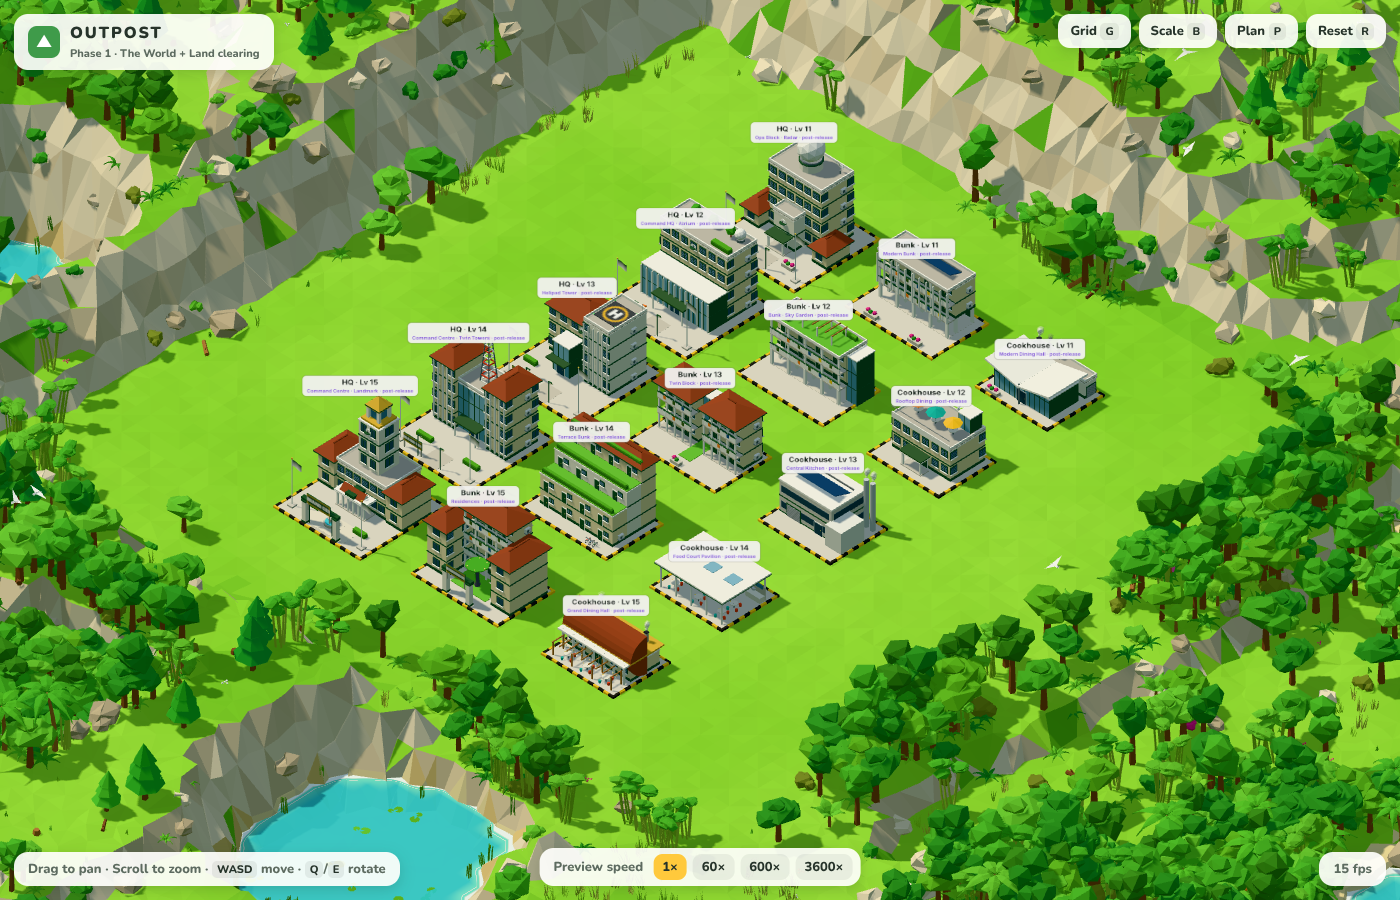
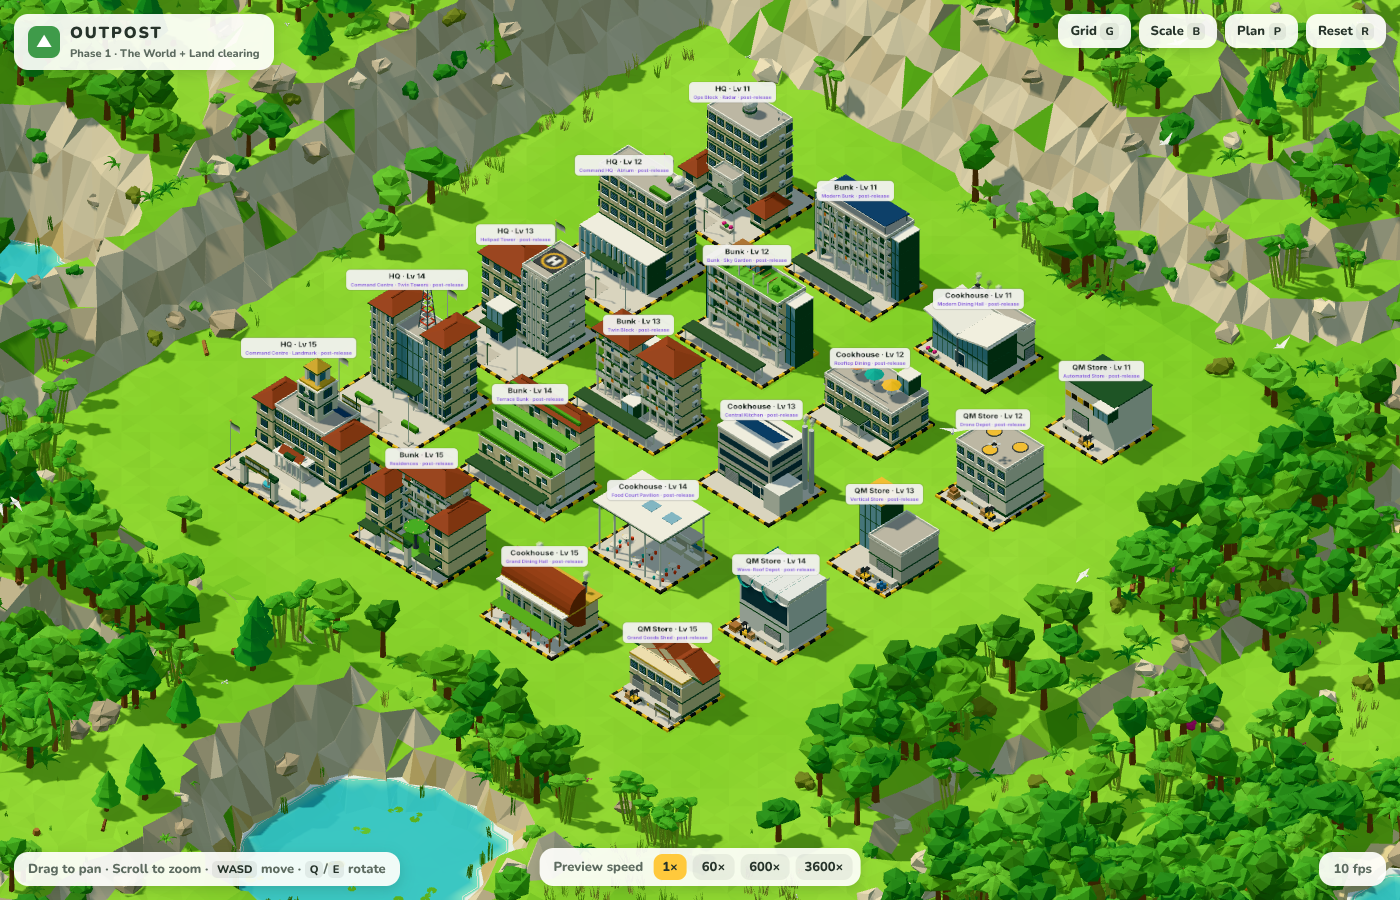
Refinement pass: uniqueness and upgrade-only progression across all buildings
Metrics QA (height, coverage, detail) with no remaining downgrades; visual
fixes for Bunk 4/12/18, HQ 8/17, QM 13/14/16/19; documents the rules.

Claude-Session: https://claude.ai/code/session_01SMnsqwFm6RZfdtWKUcNS1P

diff --git a/src/buildings/qmstore.ts b/src/buildings/qmstore.ts
@@ -328,11 +328,12 @@ function command(k: Kit, level: number, y: number) {
   }
   if (level === 13) {
     // Vertical Store: glass automated tower beside a low dock hall.
-    k.glassBox(1.2, 3.1, 1.2, -1.15, y, -1.0);
-    for (let l = 0; l < 5; l++) k.box(1.0, 0.04, 1.0, RACK_UP, -1.15, y + 0.5 + l * 0.55, -1.0);
-    k.box(1.3, 0.12, 1.3, C.white, -1.15, y + 3.1, -1.0);
-    const h = store(k, 2.4, 2.6, 0.75, -0.5, y, 3, CONCRETE);
-    k.flatRoof(2.4, 2.6, 0.75, y + h, -0.5);
+    k.glassBox(1.5, 3.2, 1.5, -1.1, y, -0.9);
+    for (let l = 0; l < 5; l++) for (let b = 0; b < 3; b++) k.box(0.36, 0.3, 1.2, BOX[(l + b) % BOX.length], -1.5 + b * 0.4, y + 0.35 + l * 0.58, -0.9);
+    for (let l = 0; l < 6; l++) k.box(1.4, 0.04, 1.3, RACK_UP, -1.1, y + 0.3 + l * 0.58, -0.9);
+    k.box(1.6, 0.12, 1.6, '#ffc93c', -1.1, y + 3.2, -0.9);
+    const h = store(k, 2.2, 2.6, 0.85, -0.5, y, 2, CONCRETE);
+    k.flatRoof(2.2, 2.6, 0.85, y + h, -0.5);
     const belt = k.box(0.9, 0.08, 0.2, '#5c6166', -0.15, y + 1.2, -1.0);
     belt.rotation.z = -0.3;
     dock(k, 0.75, 1.05, 2.0, y);
@@ -343,14 +344,14 @@ function command(k: Kit, level: number, y: number) {
   if (level === 14) {
     // Wave-Roof Depot: undulating roof of alternating arcs over a glazed shed.
     const w = 3.4, d = 2.6, z = -0.5;
-    k.box(w, 2.85, d, CONCRETE, 0, y, z);
-    k.box(w - 0.3, 0.4, 0.04, DARK_GLASS, 0, y + 2.2, z + d / 2 + 0.01);
+    k.box(w, 3.1, d, '#e6e9eb', 0, y, z);
+    k.box(w - 0.3, 1.1, 0.04, DARK_GLASS, 0, y + 1.5, z + d / 2 + 0.01);
     k.box(w + 0.02, 0.06, d + 0.02, C.trim, 0, y + 1.15, z);
     for (let i = 0; i < 4; i++) {
-      const arc = new THREE.Mesh(new THREE.CylinderGeometry(0.5, 0.5, d + 0.3, 10, 1, true, -Math.PI / 2, Math.PI), new THREE.MeshStandardMaterial({ color: i % 2 ? C.white : '#9aa3a6', flatShading: true, side: THREE.DoubleSide }));
+      const arc = new THREE.Mesh(new THREE.CylinderGeometry(0.5, 0.5, d + 0.3, 10, 1, true, -Math.PI / 2, Math.PI), new THREE.MeshStandardMaterial({ color: i % 2 ? C.white : '#2bb3a3', flatShading: true, side: THREE.DoubleSide }));
       arc.rotation.x = Math.PI / 2;
-      arc.scale.set(1, 1, i % 2 ? 0.45 : 0.75);
-      arc.position.set(-1.27 + i * 0.85, y + 2.85, z);
+      arc.scale.set(1, 1, i % 2 ? 0.8 : 1.3);
+      arc.position.set(-1.27 + i * 0.85, y + 3.1, z);
       arc.rotation.y = 0;
       arc.castShadow = true;
       k.add(arc);
@@ -362,13 +363,13 @@ function command(k: Kit, level: number, y: number) {
     return;
   }
   // 15: Grand Goods Shed: railway-style shed with three arched gable doorways and gold trim.
-  const w = 3.6, d = 2.2, z = -0.6;
+  const w = 3.6, d = 2.6, z = -0.5;
   const h = k.block(w, d, 2, 0, y, z) + 0.3;
   k.box(w, 0.3, d, C.wall, 0, y + 2 * STOREY, z);
   k.windowRow('front', 0, z, w, d, 6, y + STOREY + 0.45, { louvre: true });
   for (let i = 0; i < 3; i++) {
     const g = new Kit();
-    g.gableRoof(1.1, d, 0.55, 0, 0, 0, C.roof, 0.08);
+    g.gableRoof(1.1, d, 0.8, 0, 0, 0, C.roof, 0.08);
     g.group.rotation.y = Math.PI / 2;
     g.group.position.set(-1.2 + i * 1.2, y + h, z);
     k.add(g.group);
@@ -390,12 +391,18 @@ function secure(k: Kit, level: number, y: number) {
     k.box(2.8, 2.9, 2.0, CONCRETE, -0.3, y, -0.8);
     for (let i = 0; i < 7; i++) k.box(2.82, 0.03, 2.02, '#c2bdb3', -0.3, y + 0.4 + i * 0.4, -0.8);
     roofCanopy(k, 2.4, 1.6, -0.3, y + 2.9, -0.8, 0.3);
+    for (let i = 0; i < 9; i++) k.box(0.3, 0.2, 0.04, i % 2 ? C.kerbB : C.kerbY, -1.5 + i * 0.3, y + 1.4, 0.21);
+    for (const x of [-1.5, 0.9]) {
+      k.box(0.06, 0.06, 0.2, C.dark, x, y + 2.4, 0.3);
+      k.box(0.2, 0.12, 0.06, '#fff6c8', x, y + 2.35, 0.42);
+    }
     const door = k.cyl(0.5, 0.12, '#8a9196', -0.3, y + 0.15, 0.25, 16);
     door.rotation.x = Math.PI / 2;
     door.position.set(-0.3, y + 0.62, 0.22);
     k.cyl(0.08, 0.16, '#d9b24a', -0.3, y + 0.62, 0.28, 8).rotation.x = Math.PI / 2;
     for (const [x, z] of [[1.4, -1.2], [1.4, -0.4]]) pallet(k, x, z, y, 'crates', 2);
     for (let i = 0; i < 6; i++) k.box(0.03, 0.8, 0.03, C.metal, 1.05 + (i % 3) * 0.33, y, i < 3 ? -1.55 : -0.05);
+    k.box(0.9, 0.05, 1.7, C.roofGreen, 1.38, y + 0.85, -0.8); // cage roof
     forklift(k, 0.8, 1.0, y, Math.PI);
     return;
   }
@@ -441,7 +448,7 @@ function secure(k: Kit, level: number, y: number) {
     k.box(1.4, 0.07, 3.0, C.roofGreen, -1.05, y + 2.0, -0.3);
     for (const z2 of [-1.6, -0.3, 1.0]) k.box(0.06, 2.0, 0.06, C.white, -0.4, y, z2);
     for (const z of [-1.2, 0.0]) k.cyl(0.08, 0.06, '#2a2b2d', -1.05, y + 0.08, z, 8).rotation.z = Math.PI / 2;
-    const h = store(k, 1.9, 2.4, 0.8, -0.6, y, 3, CONCRETE);
+    const h = store(k, 1.9, 2.4, 0.8, -0.6, y, 3, '#b5654a'); // brick goods shed
     k.box(1.9, 0.07, 0.9, C.roofGreen, 0.8, y + 1.0, 1.05);
     for (const x2 of [0.0, 1.6]) k.box(0.06, 1.0, 0.06, C.white, x2, y, 1.45);
     k.box(2.4, 0.08, 2.6, C.roofGreen, 0.55, y + h + 0.1, -0.6);

diff --git a/src/buildings/bunk.ts b/src/buildings/bunk.ts
@@ -203,10 +203,14 @@ function field(k: Kit, level: number, y: number) {
 
 function camp(k: Kit, level: number, y: number) {
   if (level === 4) {
-    barrack(k, 0, -0.55, 5.2, 1.7, y, 'zinc');
-    k.clothesLine(-1.6, 1.35, 1.6, y);
-    k.bench(1.3, 1.05, 0.8, y);
-    k.bin(2.6, 1.5, y);
+    // Long red-roofed barrack with a full-length green veranda (vs the timber kampong hut at Lv 3)
+    barrack(k, 0, -0.75, 5.2, 1.6, y, 'red');
+    k.box(5.2, 0.05, 0.7, '#c9c3b5', 0, y, 0.4);
+    for (let i = 0; i < 6; i++) k.box(0.07, 0.8, 0.07, C.white, -2.5 + i * 1.0, y, 0.7);
+    k.box(5.4, 0.06, 0.85, C.roofGreen, 0, y + 0.82, 0.35);
+    k.clothesLine(-1.6, 1.45, 1.6, y);
+    k.bench(1.3, 1.25, 0.8, y);
+    k.bin(2.6, 1.6, y);
     return;
   }
   if (level === 5) {
@@ -294,13 +298,20 @@ function command(k: Kit, level: number, y: number) {
     return;
   }
   if (level === 12) {
+    // Three room floors, then a set-back sky-garden storey with a planted terrace in front
     const top = corridorBlock(k, { bw: 4.8, bd: 1.35, bz: -0.95, storeys: 4, y, voidDeck: true, roof: 'flat' });
     const ry = y + top + 0.06;
-    // Roof garden with a pergola
     k.box(4.6, 0.04, 1.7, '#6cbf45', 0, ry, -0.7);
-    for (const x of [-1.6, -0.6, 0.4, 1.4]) for (const z of [-1.2, -0.2]) k.box(0.06, 0.6, 0.06, C.white, x, ry, z);
-    for (let i = 0; i < 8; i++) k.box(0.05, 0.05, 1.1, C.wood, -1.7 + i * 0.45, ry + 0.6, -0.7);
-    k.box(3.3, 0.04, 1.15, '#b07a4a', -0.1, ry + 0.66, -0.7);
+    // Garden pavilion: low glass room under a timber roof
+    k.glassBox(2.0, 0.6, 0.8, -0.9, ry, -1.2);
+    k.box(2.2, 0.06, 1.0, C.wood, -0.9, ry + 0.6, -1.2);
+    for (const x of [-1.6, -0.6, 0.4, 1.4]) k.box(0.06, 0.7, 0.06, C.white, x, ry, -0.05);
+    for (let i = 0; i < 8; i++) k.box(0.05, 0.05, 0.6, C.wood, -1.7 + i * 0.45, ry + 0.7, -0.35);
+    for (const x of [-1.9, 1.7]) {
+      const t = new THREE.Mesh(new THREE.IcosahedronGeometry(0.22, 0), new THREE.MeshStandardMaterial({ color: '#4fae3a', flatShading: true }));
+      t.position.set(x, ry + 0.35, -0.3);
+      k.add(t);
+    }
     k.glassBox(0.5, top - 0.1, 1.4, -2.65, y, -0.8);
     k.linkway(-2.4, 1.6, 2.4, 1.6, y, 0.75, 0.6);
     k.hedge(-1.8, -0.1, 0.8, 0.2, ry);
@@ -377,6 +388,7 @@ function secure(k: Kit, level: number, y: number) {
     k.box(w + 0.08, 0.1, d + 0.08, C.white, 0, y + 4 * STOREY, z);
     roofCanopy(k, 4.4, 1.2, 0, y + 4 * STOREY + 0.1, z);
     k.glassBox(0.5, 4 * STOREY - 0.1, 1.2, 2.55, y, z);
+    k.linkway(-2.4, 1.3, 2.4, 1.3, y, 0.75, 0.55);
     k.box(3.0, 0.08, 0.6, C.roofGreen, -0.8, y + 0.9, 0.55);
     for (const x of [-2.2, 0.6]) k.box(0.07, 0.9, 0.07, C.white, x, y, 0.8);
     k.door('right', 0, z, w, d, 0, y, 0.4, 0.66, DARK_GLASS);
@@ -399,6 +411,8 @@ function secure(k: Kit, level: number, y: number) {
     }
     k.stairs(2.6, -0.2, 0.4, 1.6, 3 * STOREY);
     roofCanopy(k, 4.2, 1.3, 0.3, y + 4 * STOREY + 0.05, -0.75);
+    k.box(4.6, 0.07, 0.5, C.roofGreen, 0.1, y + 0.9, 1.1);
+    for (const x of [-2.1, 0.1, 2.3]) k.box(0.06, 0.9, 0.06, C.white, x, y, 1.3);
     return;
   }
   if (level === 18) {
@@ -414,6 +428,12 @@ function secure(k: Kit, level: number, y: number) {
       }
       k.box(4.88, 0.1, 0.83, '#6cbf45', 0, y + 4 * STOREY, z);
       k.hedge(0, z, 4.4, 0.4, y + 4 * STOREY + 0.1);
+      // Outer face: dark windows with green planter boxes on every floor
+      const oz = z + (flip > 0 ? -0.4 : 0.4);
+      for (let f = 0; f < 4; f++) {
+        k.box(4.4, 0.32, 0.04, DARK_GLASS, 0, y + f * STOREY + 0.36, oz);
+        k.box(4.6, 0.14, 0.16, '#4fae3a', 0, y + f * STOREY + 0.18, oz + (flip > 0 ? -0.08 : 0.08));
+      }
     }
     // Street: paving, trees, pergola with towels on lines
     k.box(4.6, 0.02, 1.2, '#e3dccb', 0, y, -0.25);

diff --git a/src/buildings/hq.ts b/src/buildings/hq.ts
@@ -272,6 +272,13 @@ function base(k: Kit, level: number, y: number) {
   k.lamp(-0.75, 2.6, y);
   k.lamp(0.6, 2.6, y);
   if (!complex) k.antenna(1.3, y + h + 0.35, bz - 0.25, 1.4);
+  if (level === 8) {
+    // Rooftop cupola with a flag: an early hint of the Lv 9 clock tower
+    k.box(0.7, 0.55, 0.7, C.white, 0, y + h + 0.35, bz);
+    k.box(0.5, 0.25, 0.04, DARK_GLASS, 0, y + h + 0.5, bz + 0.36);
+    k.hipRoof(0.7, 0.7, 0.35, 0, y + h + 0.9, bz, C.roof, 0.08);
+    k.flagpole(0, bz, 0.7, y + h + 1.2);
+  }
 }
 
 
@@ -501,7 +508,12 @@ function secureCompound(k: Kit, y: number) {
 /** 17 — Operations Centre: three-storey base with a glass fourth storey cantilevered over the entrance. */
 function opsCentre(k: Kit, y: number) {
   const bz = -1.0;
-  const h = ribbonBlock(k, 0, bz, 4.4, 2.2, 4, y);
+  // Vertical-fin facade (HQ 16 uses horizontal ribbons)
+  const h = 4 * STOREY;
+  k.box(4.4, h, 2.2, CONCRETE, 0, y, bz);
+  k.box(4.3, h - 0.3, 0.04, DARK_GLASS, 0, y + 0.15, bz + 1.11);
+  k.fins(4.4, h - 0.2, 0, y + 0.1, bz + 1.17, 16);
+  k.box(4.48, 0.1, 2.28, C.white, 0, y + h, bz);
   // Cantilevered glass box projecting forward over the drop-off
   k.glassBox(3.0, STOREY - 0.05, 2.6, 0.3, y + h + 0.1, bz + 0.4);
   k.box(3.1, 0.1, 2.7, C.white, 0.3, y + h, bz + 0.4);

diff --git a/docs/BUILDINGS_PLAN.md b/docs/BUILDINGS_PLAN.md
@@ -15,6 +15,7 @@ export const RELEASE_MAX_LEVEL = 10;
 - **Height budget:** a building's bulk stays within about **4 storeys** so it never hides what's behind it; only thin elements (masts, flags, spires) go higher.
 - **Theme by band, identity by building:** the band sets the shared theme (materials, colours, era). Each building keeps its own signature at every level: **HQ** has flags, clock, command tower and antennas; **Bunk** has rows of rooms, corridors or balconies and laundry; **Cookhouse** has chimneys or steam stacks, dining tables, umbrellas and canopies; **QM Store** has crates and pallets, a forklift and a loading dock or roller shutter.
 - **No shared concepts:** no two buildings use the same idea at the same level. Check with the compare view: open the game with `?showcase=11-15` or `?showcase=16-20` (all buildings side by side, one row per level).
+- **Every step is an upgrade:** height rises level by level until it reaches the building's cap (**HQ 5 storeys, Bunk 4.5, Cookhouse 3.5, QM Store 3.5**), then holds while coverage and detail keep growing. Checked by measurement: open the browser console and run `__outpost.metrics()` to get the height, peak, coverage and detail of every level. A level fails if height drops by more than half a storey or presence (height × coverage) drops by more than 15%.
 - **Every level is a visible change.** Each level adds a recognisable silhouette or detail.
 - **Five art bands:** Field (1–3) → Camp (4–6) → Base (7–10) → Command (11–15, post-release) → Secure (16–20, reserve).
 - **Stats live in data:** cost, Reputation, build time, HP and building-specific stats, defined per level in each building's file.
@@ -66,7 +67,7 @@ The HQ is the heart of the outpost. Each level raises the cap for every other bu
 | 15 | Command Centre · Landmark | 4,000,000 | 10,000 | 7 d | 17,500 | 700,000 | 5 | Buildings to Lv 15, Landmark status |
 | 16 | Secure Compound | 5,200,000 | 12,000 | 8 d | 19,800 | 850,000 | 5 | Buildings to Lv 16 |
 | 17 | Operations Centre | 6,600,000 | 14,500 | 9 d | 22,300 | 1,000,000 | 6 | Buildings to Lv 17, 6th construction crew |
-| 18 | Bunker Command | 8,200,000 | 17,000 | 10 d | 25,000 | 1,200,000 | 6 | Buildings to Lv 18 |
+| 18 | Fortress Command | 8,200,000 | 17,000 | 10 d | 25,000 | 1,200,000 | 6 | Buildings to Lv 18 |
 | 19 | Comms Hub | 10,000,000 | 20,000 | 11 d | 28,000 | 1,400,000 | 6 | Buildings to Lv 19 |
 | 20 | Citadel | 12,000,000 | 23,000 | 12 d | 31,000 | 1,600,000 | 7 | Buildings to Lv 20, 7th construction crew, Citadel status |
 *Levels 11–15 are post-release; 16–20 are reserve.* "Crews" means construction crews (simultaneous builds). All numbers are first-pass balance and will be tuned against the economy in Phase 6.
@@ -82,7 +83,7 @@ The HQ is the heart of the outpost. Each level raises the cap for every other bu
 | 5 | **Camp HQ · East Wing:** **L-shape**: a red-roofed east wing projects forward; gabled entrance bay; covered link-way; antenna |
 | 6 | **Admin Block · Veranda:** first **two storeys**; full-width green veranda on columns; rooftop water tank |
 | 7 | **Admin Block · Courtyard:** **U-shape**: two-storey wings either side; projecting gabled entrance with a balcony; courtyard with a central flagpole and hedges |
-| 8 | **Headquarters:** three-storey main block with wings, grand porch, twin flagpoles |
+| 8 | **Headquarters:** three-storey main block with wings, grand porch, twin flagpoles; **rooftop cupola with a flag** (a preview of the Lv 9 clock tower) |
 | 9 | **Headquarters · Clock Tower:** four-storey clock tower with a dish and antenna |
 | 10 | **HQ Complex:** five-storey tower, two-storey wings with red roofs, white columned portico with a pediment *(release cap)* |
 | 11 | **Ops Block · Radar:** wide four-storey flat-roof block topped by a **giant white radar dome** on a drum; clock over a projecting entrance; low red-roofed pavilions either side |
@@ -91,8 +92,8 @@ The HQ is the heart of the outpost. Each level raises the cap for every other bu
 | 14 | **Command Centre · Twin Towers:** **twin four-storey towers** bridged by a three-storey glass block, with a red-and-white lattice comms mast between them |
 | 15 | **Command Centre · Landmark:** **five-storey crowned tower** on a podium; red-roofed wings; fountain plaza and ceremonial arch |
 | 16 | **Secure Compound:** the secure band begins. **Perimeter wall with mesh fence, gatehouse, boom gate, bollards and CCTV**; wide three-storey concrete block with dark ribbon windows, glass lobby, rooftop solar |
-| 17 | **Operations Centre:** a **glass fourth storey cantilevered** over the entrance, with a green roof |
-| 18 | **Bunker Command:** **earth-bermed** concrete core with steel blast doors and vents; green roof with a glass command pavilion and radar (~2.5 storeys) |
+| 17 | **Operations Centre:** four-storey block with **vertical white fins** and a glass fifth storey cantilevered over the entrance, with a green roof |
+| 18 | **Fortress Command:** earth-bermed two-storey concrete base with blast doors, and a three-storey glass command tower rising from the grass roof |
 | 19 | **Comms Hub:** three-storey block with a **saw-tooth solar roof**; big satellite dish on a low terrace; short lattice mast |
 | 20 | **Citadel:** low **courtyard ring** of three-storey ranges with **glass corner towers**, gold accent band, Supertree garden in the courtyard and a glass gate |
 
@@ -136,7 +137,7 @@ Houses Recruits. Higher levels house more of them and help them rest faster. Foo
 | 1 | **Basha Lines:** olive tarp shelters on poles over sleeping mats, field packs, sandbags, crates |
 | 2 | **Tent Lines:** two big canvas tents, washing line, water drums and cooler |
 | 3 | **Kampong Barrack:** timber hut on stilts, zinc roof, wooden steps |
-| 4 | **Barrack:** classic cream single-storey barrack, zinc roof, louvre windows |
+| 4 | **Barrack:** long cream barrack with a **red-brown hip roof** and a full-length green veranda |
 | 5 | **Twin Barracks:** two parallel red-roofed barracks joined by covered link-ways |
 | 6 | **Bunk Block:** first two storeys; front corridor with towels on the parapet; end stair |
 | 7 | **Stair Tower:** two storeys plus a three-storey stair tower with a pyramid roof |
@@ -144,13 +145,13 @@ Houses Recruits. Higher levels house more of them and help them rest faster. Foo
 | 9 | **Void Deck:** HDB-style open ground floor with benches; projecting gabled stair/lift core with a painted block number |
 | 10 | **Bunk Complex:** void deck plus three room floors; stair towers at both ends; rooftop tanks |
 | 11 | **Modern Bunk:** flat roof, white vertical fins, rooftop solar |
-| 12 | **Sky Garden:** planted roof with a timber pergola; glass stair core |
+| 12 | **Sky Garden:** void deck plus three room floors, and a planted roof terrace with a low glass garden pavilion and pergola |
 | 13 | **Twin Block:** two slim red-roofed blocks joined by glass sky-bridges |
 | 14 | **Terrace Bunk:** stepped tiers with planted terraces |
 | 15 | **Residences:** U-shape, red roofs, gold band, courtyard Supertree, entrance arch |
 | 16 | **Balcony Quarters:** perimeter wall and gate; long three-storey block with recessed, colour-panelled balconies and laundry; solar roof |
 | 17 | **Pod Quarters:** stacked modular pods with coloured doors, steel walkways |
-| 18 | **Garden Quarters:** two slim two-storey slabs with a planted, tree-lined street and a pergola with laundry between them |
+| 18 | **Garden Quarters:** two slim four-storey slabs with planter boxes on every floor, joined by a tree-lined street with a pergola |
 | 19 | **Green-Wall Quarters:** chequerboard of planted panels and windows across the facade; rooftop wind turbines |
 | 20 | **Townhouse Citadel:** staggered row of four three- and four-storey townhouse units with coloured balconies, gold-trimmed roof terraces |
 
@@ -261,13 +262,13 @@ Stores Supplies; delivery trucks unload here. **Signature at every level:** crat
 | 10 | **Logistics Hub:** high-bay store, cold store, covered dock and weighbridge |
 | 11 | **Automated Store:** white high-bay with a giant yellow/black chevron band and a cantilevered glass control room |
 | 12 | **Drone Depot:** flat roof with three yellow drone pads; a delivery drone hovering |
-| 13 | **Vertical Store:** glass automated storage tower with visible racking, conveyor into a low dock hall |
-| 14 | **Wave-Roof Depot:** undulating roof of alternating arcs over a glazed shed |
+| 13 | **Vertical Store:** tall glass storage tower with colourful stacked stock and a yellow cap, beside a two-storey dock hall |
+| 14 | **Wave-Roof Depot:** light glazed shed under big **teal and white wave roofs** |
 | 15 | **Grand Goods Shed:** railway-style goods shed with three gabled arched doorways, gold band, 'QM DEPOT' plaque |
-| 16 | **Vault Store:** windowless concrete strongroom with a round vault door; fenced cage of crates |
+| 16 | **Vault Store:** concrete strongroom with a round vault door, hazard-stripe band, floodlights and a covered crate cage |
 | 17 | **Robotic Warehouse:** glass walls reveal a colourful robot shelving grid; conveyor out to the dock |
 | 18 | **Tensile Depot:** three peaked white fabric canopies over a pallet yard |
-| 19 | **Rail Depot:** short rail siding with a red freight wagon beside a platform store |
+| 19 | **Rail Depot:** rail siding with a red freight wagon under a platform canopy, beside a **brick-red** goods shed |
 | 20 | **Dome Depot:** geodesic storage dome with a gold ring and a glazed dock entrance |
 
 Review scene: open the game with `?showcase=qmstore`.
